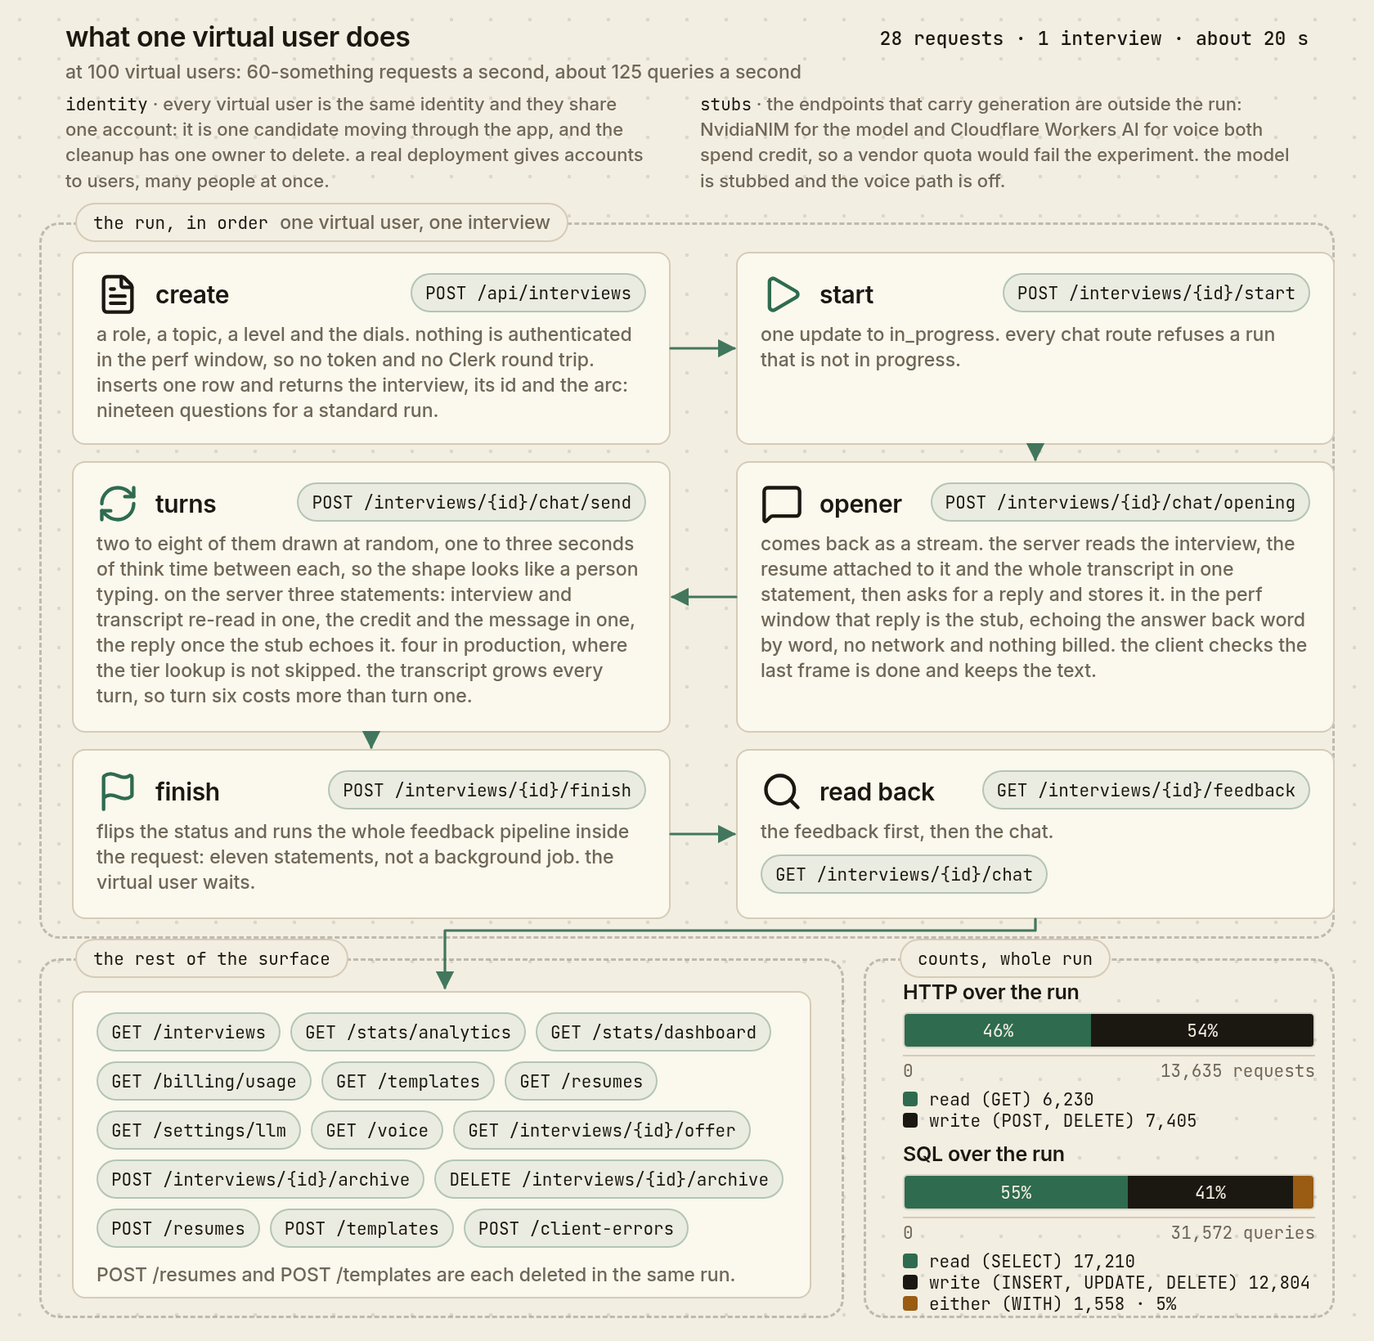
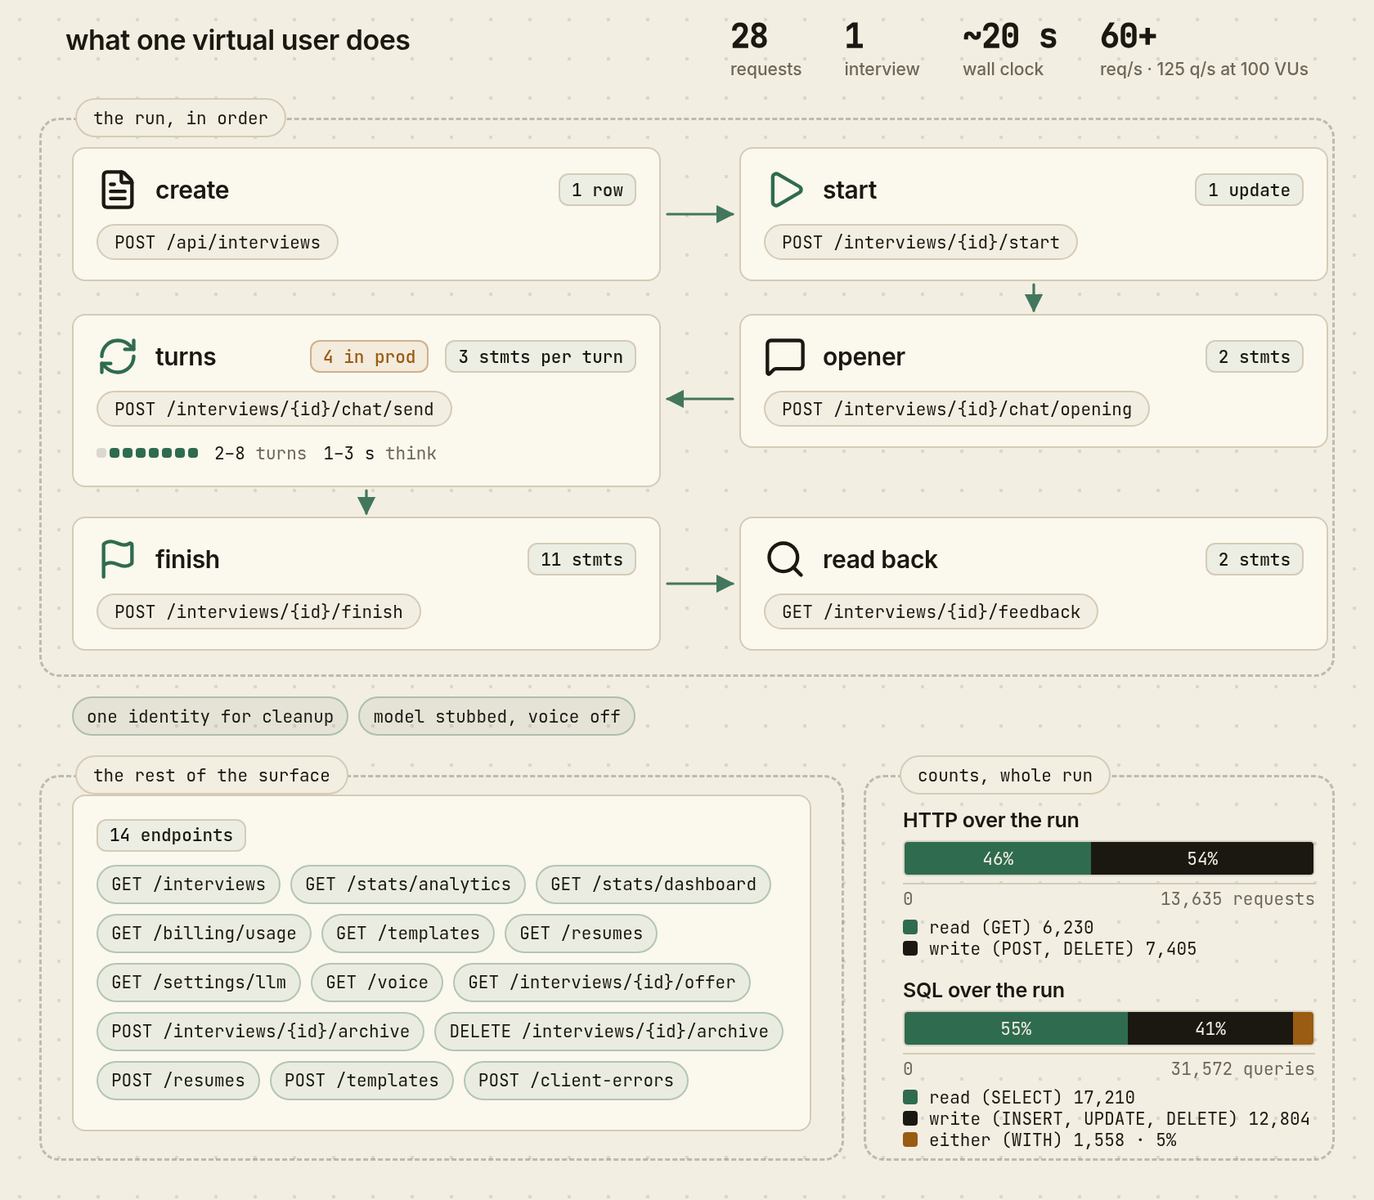
ref(blog): caption the pool, ladder and port figures

Changed region(s): [[0.031, 0.0, 0.9595, 0.9809]]

diff --git a/frontend/scripts/diagrams/sre-vu.html b/frontend/scripts/diagrams/sre-vu.html
@@ -20,7 +20,7 @@
     #canvas {
         position: relative;
         width: 840px;
-        height: 820px;
+        height: 734px;
         overflow: hidden;
         background-color: var(--paper);
         background-image: radial-gradient(circle, rgba(27, 24, 18, 0.11) 1px, transparent 1.3px);
@@ -52,7 +52,7 @@
         font-size: 10.5px;
         color: var(--ink);
     }
-    .pill .psub { margin-left: 7px; font-size: 11.5px; font-weight: 500; color: var(--muted); }
+    .pill.in { position: static; height: 22px; margin-top: 8px; }
 
     .card {
         position: absolute;
@@ -65,7 +65,40 @@
     .hdr { display: flex; align-items: center; gap: 10px; min-height: 26px; }
     .hdr img { width: 26px; height: 26px; flex: none; }
     .title { font-size: 15px; font-weight: 600; letter-spacing: -0.01em; line-height: 1.2; }
-    .sub { margin-top: 4px; font-size: 11.5px; font-weight: 500; color: var(--muted); line-height: 1.35; }
+
+    .badge {
+        display: inline-flex;
+        align-items: center;
+        height: 20px;
+        padding: 0 7px;
+        border: 1px solid var(--line);
+        border-radius: 6px;
+        background: rgba(47, 107, 79, 0.07);
+        font-family: "JetBrains Mono", "DejaVu Sans Mono", monospace;
+        font-size: 10.5px;
+        font-weight: 500;
+        color: var(--ink);
+        white-space: nowrap;
+    }
+    .badge.end { margin-left: auto; }
+    .badge.amber {
+        margin-left: auto;
+        color: var(--amber);
+        border-color: rgba(154, 91, 18, 0.4);
+        background: rgba(154, 91, 18, 0.08);
+    }
+    .badge.amber + .badge { margin-left: 0; }
+
+    .gauge { display: flex; align-items: center; gap: 10px; margin-top: 8px; height: 16px; }
+    .dotrun { display: flex; gap: 2px; }
+    .dotrun i { width: 6px; height: 6px; border-radius: 2px; background: rgba(27, 24, 18, 0.14); }
+    .dotrun i.on { background: var(--accent); }
+    .gtext {
+        font-family: "JetBrains Mono", "DejaVu Sans Mono", monospace;
+        font-size: 10.5px;
+        color: var(--muted);
+    }
+    .gtext b { font-weight: 400; color: var(--ink); }
 
     .chip {
         display: inline-flex;
@@ -80,35 +113,33 @@
         color: var(--ink);
         white-space: nowrap;
     }
-    .chip.abs { position: absolute; right: 14px; top: 12px; }
     .chiprow { margin-top: 6px; display: flex; flex-wrap: wrap; gap: 6px; }
+    .chiprow.first { margin-top: 0; }
 
     .ttl {
         position: absolute;
         left: 40px;
-        top: 12px;
+        top: 14px;
         font-size: 17px;
         font-weight: 600;
         letter-spacing: -0.015em;
     }
-    .stats {
+    .totals {
         position: absolute;
         right: 40px;
-        top: 16px;
-        font-family: "JetBrains Mono", "DejaVu Sans Mono", monospace;
-        font-size: 11.5px;
-        font-weight: 500;
-        color: var(--ink);
+        top: 12px;
+        display: flex;
+        gap: 26px;
     }
-    .vuline { position: absolute; left: 40px; top: 37px; font-size: 11.5px; font-weight: 500; color: var(--muted); }
-
-    .note2 { position: absolute; font-size: 11px; font-weight: 500; color: var(--muted); line-height: 1.42; }
-    .note2 b {
+    .t .tv {
+        display: block;
         font-family: "JetBrains Mono", "DejaVu Sans Mono", monospace;
-        font-size: 10.5px;
-        font-weight: 400;
-        color: var(--ink);
+        font-size: 20px;
+        font-weight: 600;
+        letter-spacing: -0.02em;
+        line-height: 1;
     }
+    .t .tk { display: block; margin-top: 5px; font-size: 10.5px; font-weight: 500; color: var(--muted); line-height: 1; white-space: nowrap; }
 
     .grp { position: absolute; width: 252px; }
     .ct { font-size: 12.5px; font-weight: 600; letter-spacing: -0.01em; }
@@ -160,74 +191,78 @@
 </head>
 <body>
 <div id="canvas">
-    <svg id="wires" viewBox="0 0 840 820" xmlns="http://www.w3.org/2000/svg">
+    <svg id="wires" viewBox="0 0 840 734" xmlns="http://www.w3.org/2000/svg">
         <defs>
             <marker id="arrow" viewBox="0 0 10 10" refX="9" refY="5" markerWidth="7" markerHeight="7" orient="auto-start-reverse">
                 <path d="M0,0 L10,5 L0,10 Z" fill="#2f6b4f" />
             </marker>
         </defs>
         <g fill="none" stroke="#2f6b4f" stroke-width="1.6" stroke-linecap="round" stroke-linejoin="round" opacity="0.9">
-            <path d="M410,213 H449" marker-end="url(#arrow)" />
-            <path d="M633,272 V281" marker-end="url(#arrow)" />
-            <path d="M450,365 H411" marker-end="url(#arrow)" />
-            <path d="M227,448 V457" marker-end="url(#arrow)" />
-            <path d="M410,510 H449" marker-end="url(#arrow)" />
-            <path d="M633,562 V569 H272 V604" marker-end="url(#arrow)" />
+            <path d="M408,131 H448" marker-end="url(#arrow)" />
+            <path d="M632,174 V190" marker-end="url(#arrow)" />
+            <path d="M448,244 H408" marker-end="url(#arrow)" />
+            <path d="M224,300 V314" marker-end="url(#arrow)" />
+            <path d="M408,357 H448" marker-end="url(#arrow)" />
         </g>
     </svg>
 
     <div class="ttl">what one virtual user does</div>
-    <div class="stats">28 requests &#183; 1 interview &#183; about 20 s</div>
-    <div class="vuline">at 100 virtual users: 60-something requests a second, about 125 queries a second</div>
-
-    <div class="note2" style="left:40px; top:56px; width:356px;"><b>identity</b> &#183; every virtual user is the same identity and they share one account: it is one candidate moving through the app, and the cleanup has one owner to delete. a real deployment gives accounts to users, many people at once.</div>
-    <div class="note2" style="left:428px; top:56px; width:368px;"><b>stubs</b> &#183; the endpoints that carry generation are outside the run: NvidiaNIM for the model and Cloudflare Workers AI for voice both spend credit, so a vendor quota would fail the experiment. the model is stubbed and the voice path is off.</div>
-
-    <div class="zone" style="left:24px; top:136px; width:792px; height:438px;"></div>
-    <div class="pill" style="left:46px; top:124px;"><span class="tag">the run, in order</span><span class="psub">one virtual user, one interview</span></div>
-
-    <div class="card" style="left:44px; top:154px; width:366px; height:118px;">
-        <div class="hdr"><img src="icons/line/file-text.svg" alt="" /><div class="title">create</div></div>
-        <span class="chip abs">POST /api/interviews</span>
-        <div class="sub">a role, a topic, a level and the dials. nothing is authenticated in the perf window, so no token and no Clerk round trip. inserts one row and returns the interview, its id and the arc: nineteen questions for a standard run.</div>
+    <div class="totals">
+        <div class="t"><span class="tv">28</span><span class="tk">requests</span></div>
+        <div class="t"><span class="tv">1</span><span class="tk">interview</span></div>
+        <div class="t"><span class="tv">~20 s</span><span class="tk">wall clock</span></div>
+        <div class="t"><span class="tv">60+</span><span class="tk">req/s &#183; 125 q/s at 100 VUs</span></div>
     </div>
 
-    <div class="card" style="left:450px; top:154px; width:366px; height:118px;">
-        <div class="hdr"><img src="icons/line/play.svg" alt="" /><div class="title">start</div></div>
-        <span class="chip abs">POST /interviews/{id}/start</span>
-        <div class="sub">one update to in_progress. every chat route refuses a run that is not in progress.</div>
+    <div class="zone" style="left:24px; top:72px; width:792px; height:342px;"></div>
+    <div class="pill" style="left:46px; top:60px;"><span class="tag">the run, in order</span></div>
+
+    <div class="card" style="left:44px; top:90px; width:360px; height:82px;">
+        <div class="hdr"><img src="icons/line/file-text.svg" alt="" /><div class="title">create</div><span class="badge end">1 row</span></div>
+        <div class="pill in"><span class="tag">POST /api/interviews</span></div>
     </div>
 
-    <div class="card" style="left:450px; top:282px; width:366px; height:166px;">
-        <div class="hdr"><img src="icons/line/message-square.svg" alt="" /><div class="title">opener</div></div>
-        <span class="chip abs">POST /interviews/{id}/chat/opening</span>
-        <div class="sub">comes back as a stream. the server reads the interview, the resume attached to it and the whole transcript in one statement, then asks for a reply and stores it. in the perf window that reply is the stub, echoing the answer back word by word, no network and nothing billed. the client checks the last frame is done and keeps the text.</div>
+    <div class="card" style="left:452px; top:90px; width:360px; height:82px;">
+        <div class="hdr"><img src="icons/line/play.svg" alt="" /><div class="title">start</div><span class="badge end">1 update</span></div>
+        <div class="pill in"><span class="tag">POST /interviews/{id}/start</span></div>
     </div>
 
-    <div class="card" style="left:44px; top:282px; width:366px; height:166px;">
-        <div class="hdr"><img src="icons/line/refresh-cw.svg" alt="" /><div class="title">turns</div></div>
-        <span class="chip abs">POST /interviews/{id}/chat/send</span>
-        <div class="sub">two to eight of them drawn at random, one to three seconds of think time between each, so the shape looks like a person typing. on the server three statements: interview and transcript re-read in one, the credit and the message in one, the reply once the stub echoes it. four in production, where the tier lookup is not skipped. the transcript grows every turn, so turn six costs more than turn one.</div>
+    <div class="card" style="left:452px; top:192px; width:360px; height:82px;">
+        <div class="hdr"><img src="icons/line/message-square.svg" alt="" /><div class="title">opener</div><span class="badge end">2 stmts</span></div>
+        <div class="pill in"><span class="tag">POST /interviews/{id}/chat/opening</span></div>
     </div>
 
-    <div class="card" style="left:44px; top:458px; width:366px; height:104px;">
-        <div class="hdr"><img src="icons/line/flag.svg" alt="" /><div class="title">finish</div></div>
-        <span class="chip abs">POST /interviews/{id}/finish</span>
-        <div class="sub">flips the status and runs the whole feedback pipeline inside the request: eleven statements, not a background job. the virtual user waits.</div>
+    <div class="card" style="left:44px; top:192px; width:360px; height:106px;">
+        <div class="hdr"><img src="icons/line/refresh-cw.svg" alt="" /><div class="title">turns</div><span class="badge amber">4 in prod</span><span class="badge">3 stmts per turn</span></div>
+        <div class="pill in"><span class="tag">POST /interviews/{id}/chat/send</span></div>
+        <div class="gauge">
+            <span class="dotrun"><i></i><i class="on"></i><i class="on"></i><i class="on"></i><i class="on"></i><i class="on"></i><i class="on"></i><i class="on"></i></span>
+            <span class="gtext"><b>2&#8211;8</b> turns</span>
+            <span class="gtext"><b>1&#8211;3 s</b> think</span>
+        </div>
     </div>
 
-    <div class="card" style="left:450px; top:458px; width:366px; height:104px;">
-        <div class="hdr"><img src="icons/line/search.svg" alt="" /><div class="title">read back</div></div>
-        <span class="chip abs">GET /interviews/{id}/feedback</span>
-        <div class="sub">the feedback first, then the chat.</div>
-        <div class="chiprow"><span class="chip">GET /interviews/{id}/chat</span></div>
+    <div class="card" style="left:44px; top:316px; width:360px; height:82px;">
+        <div class="hdr"><img src="icons/line/flag.svg" alt="" /><div class="title">finish</div><span class="badge end">11 stmts</span></div>
+        <div class="pill in"><span class="tag">POST /interviews/{id}/finish</span></div>
     </div>
 
-    <div class="zone" style="left:24px; top:586px; width:492px; height:220px;"></div>
-    <div class="pill" style="left:46px; top:574px;"><span class="tag">the rest of the surface</span></div>
+    <div class="card" style="left:452px; top:316px; width:360px; height:82px;">
+        <div class="hdr"><img src="icons/line/search.svg" alt="" /><div class="title">read back</div><span class="badge end">2 stmts</span></div>
+        <div class="pill in"><span class="tag">GET /interviews/{id}/feedback</span></div>
+    </div>
 
-    <div class="card" style="left:44px; top:606px; width:452px; height:188px;">
-        <div class="chiprow" style="margin-top:0;">
+    <div class="chiprow first" style="position:absolute; left:44px; top:426px;">
+        <span class="chip">one identity for cleanup</span>
+        <span class="chip">model stubbed, voice off</span>
+    </div>
+
+    <div class="zone" style="left:24px; top:474px; width:492px; height:236px;"></div>
+    <div class="pill" style="left:46px; top:462px;"><span class="tag">the rest of the surface</span></div>
+
+    <div class="card" style="left:44px; top:486px; width:452px; height:206px;">
+        <span class="badge">14 endpoints</span>
+        <div class="chiprow" style="margin-top:8px;">
             <span class="chip">GET /interviews</span>
             <span class="chip">GET /stats/analytics</span>
             <span class="chip">GET /stats/dashboard</span>
@@ -243,13 +278,13 @@
             <span class="chip">POST /templates</span>
             <span class="chip">POST /client-errors</span>
         </div>
-        <div class="sub" style="margin-top:9px;">POST /resumes and POST /templates are each deleted in the same run.</div>
     </div>
 
-    <div class="zone" style="left:528px; top:586px; width:288px; height:220px;"></div>
-    <div class="pill" style="left:550px; top:574px;"><span class="tag">counts, whole run</span></div>
+    <div class="zone" style="left:528px; top:474px; width:288px; height:236px;"></div>
+    <div class="pill" style="left:550px; top:462px;"><span class="tag">counts, whole run</span></div>
 
-    <div class="grp" style="left:552px; top:599px;">        <div class="ct">HTTP over the run</div>
+    <div class="grp" style="left:552px; top:494px;">
+        <div class="ct">HTTP over the run</div>
         <div class="track">
             <div class="seg read" style="width:45.68%;">46%</div>
             <div class="seg write" style="width:54.32%;">54%</div>
@@ -261,7 +296,7 @@
         </div>
     </div>
 
-    <div class="grp" style="left:552px; top:698px;">
+    <div class="grp" style="left:552px; top:598px;">
         <div class="ct">SQL over the run</div>
         <div class="track">
             <div class="seg read" style="width:54.51%;">55%</div>

diff --git a/frontend/src/content/blogs/sre-upgrade.md b/frontend/src/content/blogs/sre-upgrade.md
@@ -89,9 +89,11 @@ A branch is a different machine: its own cold start, its own compute size, copy-
 
 ## What Each VU Does
 
-![Paper diagram of what one virtual user does: the totals are 28 requests, one interview, about 20 seconds, and at a hundred virtual users that is sixty-something requests a second and about a hundred and twenty-five queries a second. The identity note says every virtual user is the same identity and they share one account, because it is one candidate moving through the app and the cleanup has one owner to delete. The stubs note says the endpoints that carry generation are outside the run, NvidiaNIM for the model and Cloudflare Workers AI for voice both spend credit, so the model is stubbed and the voice path is off. The run in order is six steps, create `POST /api/interviews`, start `POST /interviews/{id}/start`, opener `POST /interviews/{id}/chat/opening`, turns `POST /interviews/{id}/chat/send` two to eight of them with one to three seconds of think time, finish `POST /interviews/{id}/finish` at eleven statements, then read back `GET /interviews/{id}/feedback` and `GET /interviews/{id}/chat`. The rest of the surface is `GET /interviews`, `GET /stats/analytics`, `GET /stats/dashboard`, `GET /billing/usage`, `GET /templates`, `GET /resumes`, `GET /settings/llm`, `GET /voice`, `GET /interviews/{id}/offer`, `POST` and `DELETE /interviews/{id}/archive`, `POST /resumes` and `POST /templates` each deleted in the same run, and `POST /client-errors`. The two charts are HTTP read 6,230 at 46 percent against write 7,405 at 54 percent, and SQL read 17,210 at 55 percent against write 12,804 at 41 percent and either WITH 1,558 at 5 percent.](/sre-vu.png)
+A virtual user is one person doing one whole interview, plus everything else a signed-in person can reach.
 
-A virtual user is one person doing one whole interview, plus everything else a signed-in person can reach. It starts with a create: `POST /api/interviews` with a role, a topic, a level and the dials. Nothing is authenticated in the perf window, so there is no token to verify and no Clerk round trip.
+![Paper diagram of what one virtual user does. The totals band runs four numbers across the top: 28 requests, one interview, about 20 seconds, and at a hundred virtual users sixty-something requests a second and about 125 queries a second. The run in order is six step cards, each with one endpoint pill and count badges: create `POST /api/interviews` at 1 row, start `POST /interviews/{id}/start` at 1 update, opener `POST /interviews/{id}/chat/opening` at 2 stmts, turns `POST /interviews/{id}/chat/send` at 3 stmts per turn and 4 in prod, two to eight turns with one to three seconds of think, finish `POST /interviews/{id}/finish` at 11 stmts, and read back `GET /interviews/{id}/feedback` at 2 stmts. Two chips under the cards say one identity for cleanup, and model stubbed with voice off. The rest of the surface card lists 14 endpoints behind one badge. The two charts count the whole run: HTTP read 6,230 at 46 percent against write 7,405 at 54 percent over 13,635 requests, and SQL read 17,210 at 55 percent, write 12,804 at 41 percent, either WITH 1,558 at 5 percent over 31,572 queries.](/sre-vu.png)
+
+It starts with a create: `POST /api/interviews` with a role, a topic, a level and the dials. Nothing is authenticated in the perf window, so there is no token to verify and no Clerk round trip.
 
 Then start, one update to `in_progress`, because every chat route refuses a run that is not in progress. Then the opener, which comes back as a stream. On the server that call reads the interview, the resume attached to it and the whole transcript in one statement, then asks for a reply and stores it. In the perf window the reply is the stub: it echoes the answer back word by word, with no network and nothing billed.
 
@@ -232,7 +234,7 @@ So I was wondering why I had 1.31s of pool queue wait at p95 at 100 VUs, and rai
 | CPU (of 4)        | 0.40    | 0.39     | 0.54    | 0.52     | 0.59           | 0.64     |
 | memory (of 256Mi) | 50%     | 46%      | 52%     | 56%      | 64%            | 74%      |
 
-![Paper comparison of the pool, one row per measurement with a capacity bar scaled to queries a second. Pool 20 at 55 VUs gives 172 queries a second and fails. Pool 40 at 55 VUs gives 245 and passes. Pool 40 at 100 VUs fails with a 209ms wait. Pool 80 at 100 VUs gives 323 and fails, with the wait gone and the mean query up to 248ms. Each doubling buys less, 43 percent then 32 percent.](/sre-pool-tradeoff.png)
+![Paper chart of six configurations, pool 20, 40 and 80 at 55 and at 100 virtual users, each row a pool wait p95 bar in amber and a query p95 bar in green, both drawn from a zero origin, with the request p95 as its own dashed tick judged against a dashed gate line at 1s. At pool 20 the wait runs 491 to 1310ms while the query stays in the 276 to 360 band. At pool 80 the wait falls to 10 and 162 while the query climbs to 797. The three values are separate percentiles, not parts of a whole, so the bars do not add up to the request p95.](/sre-pool-tradeoff.png)
 
 Read the two 100 VU rows next to each other. At 80 connections nothing waits for a connection, and the request p95 gets worse anyway, because every query now runs against a busier Neon. The mean query goes from 163ms to 248ms and the pod's memory from 56 to 74 percent of its limit.
 
@@ -247,7 +249,7 @@ The boundary after each change, in the order the runs happened.
 | 2026-10-23 | pool 40                     | 55           | 70        | 100        |
 | 2026-10-23 | pool 80                     | 55 (latency) | 71        | 100        |
 
-![Paper ladder on a 0 to 110 virtual user axis. Pool 10 before the changes passed once at 10 VUs and first failed at 20, at 17 requests a second. The optimized changes at pool 20 passed once at 32 and first failed at 55, at 50 requests a second. Pool 40 passed once at 55 and first failed at 100, at 70 requests a second. The note reads 55 is the SLO boundary, not the product ceiling.](/sre-boundary-ladder.png)
+![Paper ladder of the whole record on a log axis from 10 to 700 virtual users, seven rungs in run order, each drawn from the last level that passed to the first that failed, with its rps at the right edge. The proven rungs are solid. The two that failed one of their confirmation windows are dashed and labelled with the reason, pool 60, three workers, 512Mi, one of two failed at 250 to 300 and about 220 rps, and pool 40 with per-VU identity failed one at 175 to 187. Pool 80 stands on the same 55 to 100 span as pool 40, 71 rps against 70, so the gain is visibly nothing. The top rung is the TypeScript backend at 650, proven by both confirmations, with 700 as its first fail.](/sre-boundary-ladder.png)
 
 55 is the SLO boundary and not the ceiling of the app or the machine. The app keeps serving past it, because machines do not care about your gates, they answer the request. It just stops being acceptable by my own definition of acceptable. And the pool is not out of the story: in this workload it stopped being the wall, and if the boundary moves again the pool becomes the wall again.
 
@@ -402,6 +404,8 @@ The factor is not a constant. Co-location removes the round trip, and past 200 V
 ## The TypeScript Run
 
 The migration went smoothly, and it felt like the previous application. Nothing was out of the ordinary.
+
+![Paper diagram of the port, two stacks facing each other with the python backend on the left and the typescript backend on the right, ten rows each, and a seam column between them holding the five things that crossed unchanged: the Postgres database and its schema, the pool ceiling of 20 per process, yoyo's tables and hashes, the OTLP trace and metric endpoints with the 60s interval, and the 120 per minute limit. Every row on the right is a replacement: python 3.14 slim to node 24 slim, FastAPI and uvicorn on port 8000 to Hono 4.13 on the config port, three uvicorn workers at a pool of 20 each, 60 connections in all, to one node process at 20, asyncpg to postgres.js, yoyo-migrations to a hand-written runner, structlog to pino, the OpenTelemetry SDK to sdk-node, limits to a fixed window in a Map, pydantic 2 to zod 4.6, and a uv venv with pytest to a tsc build with vitest.](/sre-port.png)
 
 | Phase   | VUs | Window | p50    | p95   | p99   | max   | rps   | errors | verdict | wait p50 | wait p95 | query mean | query p95 | CPU (of 4) | memory |
 | ------- | --- | ------ | ------ | ----- | ----- | ----- | ----- | ------ | ------- | -------- | -------- | ---------- | --------- | ---------- | ------ |
